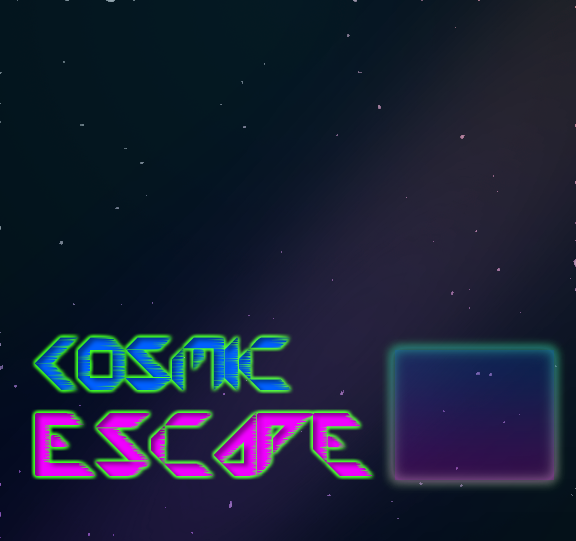
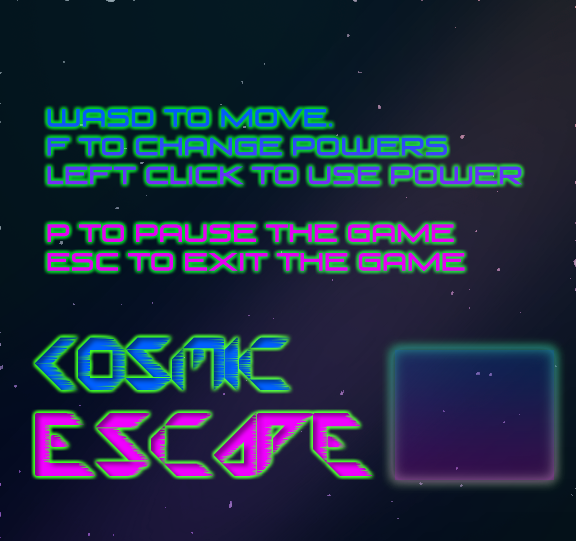
Fixed the flying HP bar. Added control instructions to the menu picture. When the game is paused volume of the song is lowered instead of paused. Unpausing will bring the volume back up.

Changed region(s): [[0.0625, 0.1774, 0.9375, 0.3549], [0.0625, 0.3845, 0.8125, 0.5323]]

diff --git a/Cosmic Escape/Cosmic Escape/Game1.cs b/Cosmic Escape/Cosmic Escape/Game1.cs
@@ -31,7 +31,7 @@ namespace Cosmic_Escape
         Song menuSong;
         bool songstart;
 
-        bool isPaused;
+        public bool isPaused;
         Rectangle rectPause;
         Texture2D pauseBackground;
 
@@ -238,7 +238,6 @@ namespace Cosmic_Escape
                 (Keyboard.GetState().IsKeyDown(Keys.Escape)))
                 this.Exit();
             //game menu update logic
-            //camera.Update(this, screenWidth, player);
             keyboardState = Keyboard.GetState();
 
             if (activeScreen == startScreen)
@@ -270,14 +269,15 @@ namespace Cosmic_Escape
                     if (isPaused == false)
                     {
                         isPaused = true;
-                        MediaPlayer.Pause();
-                        //songstart = false;
+                        //MediaPlayer.Pause();
+                        MediaPlayer.Volume = 0.20f;
                     }
                         
                     else
                     {
                         isPaused = false;
-                        MediaPlayer.Resume();
+                        MediaPlayer.Volume = 1.0f;
+                        //MediaPlayer.Resume();
                     }
                 }
 
@@ -301,8 +301,6 @@ namespace Cosmic_Escape
                     textPos.X = camera.getCamera().X + 25.0f;
                     textPos.Y = camera.getCamera().Y + 25.0f;
 
-                    healthPos.X = camera.getCamera().X + 25.0f;
-                    powerPos.X = camera.getCamera().X + 550.0f;
                     //Enemy update method. Deals with enemy movements, status, etc.
 
                     foreach (Enemy e in enemyList)
@@ -337,7 +335,21 @@ namespace Cosmic_Escape
                                 this.Exit();
                             }
                         }
+                    }
+                
 
+                    //update the interactable objects in game
+                    foreach (GameObject o in objectList)
+                    {
+                        o.Update(gameTime, platList);
+                    }
+                    for (int i = objectList.Count - 1; i >= 0; i--)//removes interactable objects. cannot be in barrel class
+                    {
+                        GameObject tempBarrel = objectList[i];
+                        if (tempBarrel.getHealth() <= 0)
+                        {
+                            objectList.Remove(tempBarrel);
+                        }
                     }
                 }
             }
@@ -368,8 +380,6 @@ namespace Cosmic_Escape
                 e.Update(gameTime, platList);
             }
             */
-            //update camera movement
-            camera.Update(this, 350, player);
             
             //update mouse
             mouse.Update();
@@ -377,19 +387,10 @@ namespace Cosmic_Escape
             //get last key press
             oldKeyboardState = keyboardState;
 
-            //update the interactable objects in game
-            foreach (GameObject o in objectList)
-            {
-                o.Update(gameTime, platList);
-            }
-            for (int i = objectList.Count - 1; i >= 0; i--)//removes interactable objects. cannot be in barrel class
-            {
-                GameObject tempBarrel = objectList[i];
-                if (tempBarrel.getHealth() <= 0)
-                {
-                    objectList.Remove(tempBarrel);
-                }
-            }
+            //update camera movement
+            camera.Update(this, 350, player);
+            healthPos.X = camera.getCamera().X + 25.0f;
+            powerPos.X = camera.getCamera().X + 550.0f;
 
             base.Update(gameTime);
         }

diff --git a/Cosmic Escape/Cosmic Escape/Player.cs b/Cosmic Escape/Cosmic Escape/Player.cs
@@ -243,8 +243,16 @@ namespace Cosmic_Escape
                 //Vector2 heartPos;
                 //heartPos.X = 0 * i;
                 //heartPos.Y = 0;
-                parent.healthPos.X += 32 + i;
+                if (!parent.isPaused)
+                {
+                    parent.healthPos.X += 32 + i;
+                }
+                else
+                {
+                    parent.healthPos.X += 35;
+                }
                 sb.Draw(parent.heartTex, parent.healthPos, Color.White);
+                
             }
 
             /*if (targetPlat != null)
